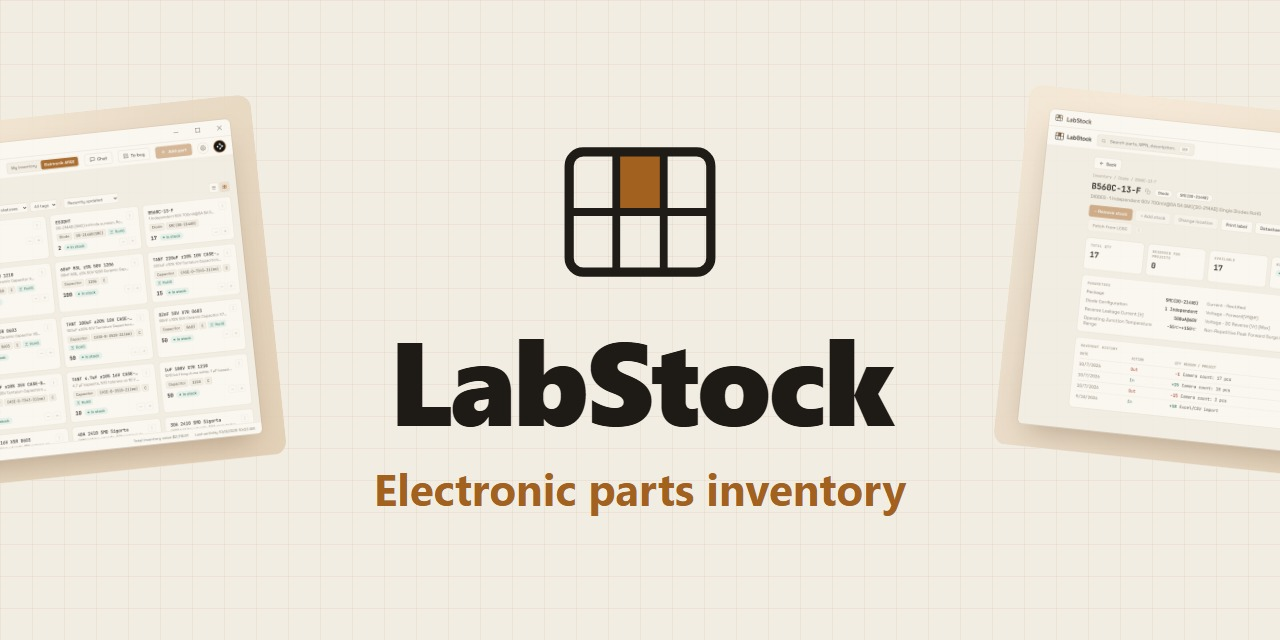
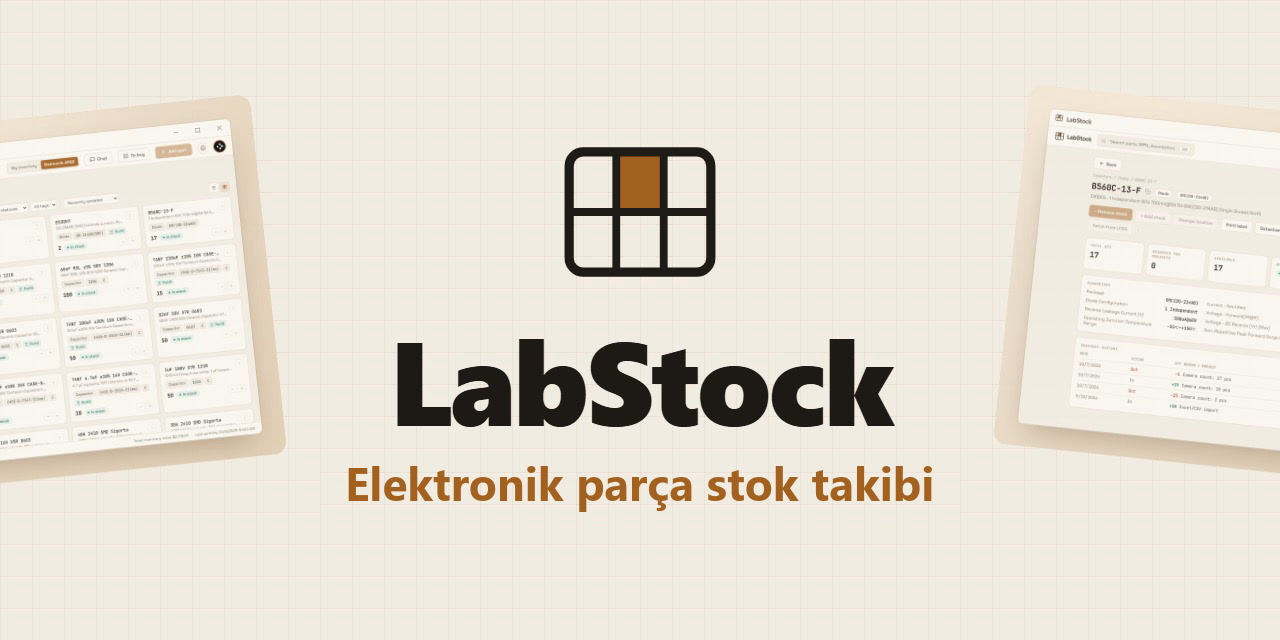
Türkçe sosyal medya önizlemesi, og meta etiketleri

Changed region(s): [[0.25, 0.7188, 0.75, 0.8125]]

diff --git a/index.html b/index.html
@@ -13,6 +13,10 @@
 <meta property="og:description" content="Ücretsiz komponent stok programı: QR etiket, LCSC'den otomatik bilgi, telefonla parça sayma. Windows & Linux.">
 <meta property="og:image" content="https://labstock.com.tr/img/og.jpg">
 <meta property="og:url" content="https://labstock.com.tr/">
+<meta property="og:locale" content="tr_TR">
+<meta property="og:locale:alternate" content="en_US">
+<meta property="og:image:width" content="1280">
+<meta property="og:image:height" content="640">
 <meta name="twitter:card" content="summary_large_image">
 <link rel="preconnect" href="https://fonts.googleapis.com">
 <link rel="preconnect" href="https://fonts.gstatic.com" crossorigin>
